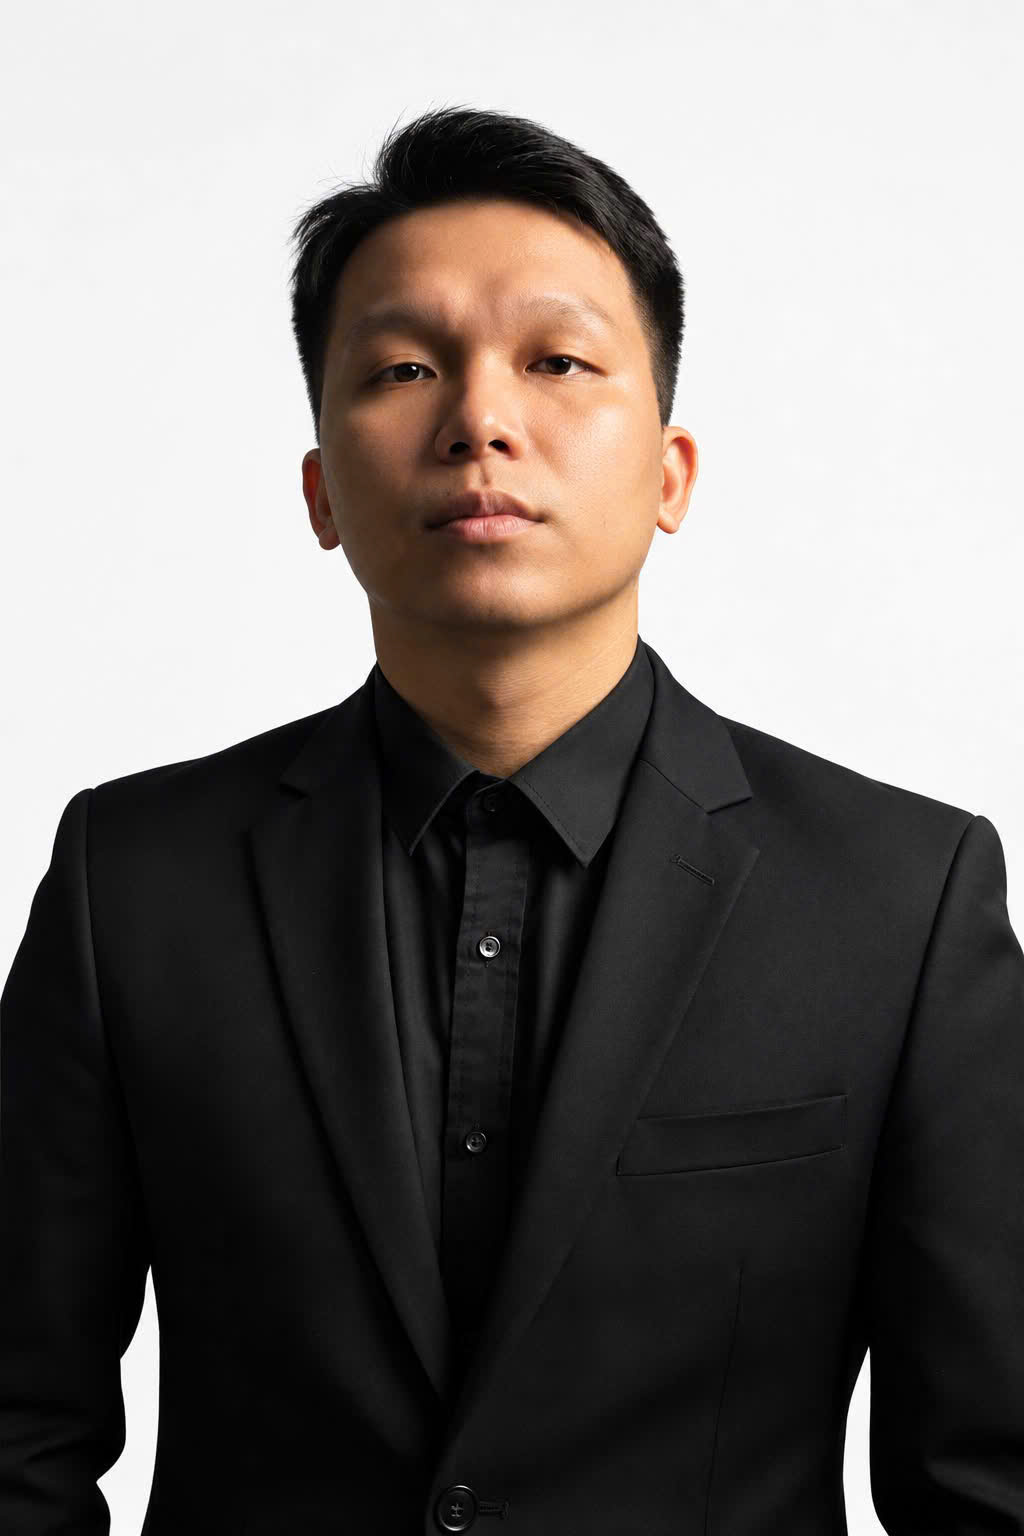
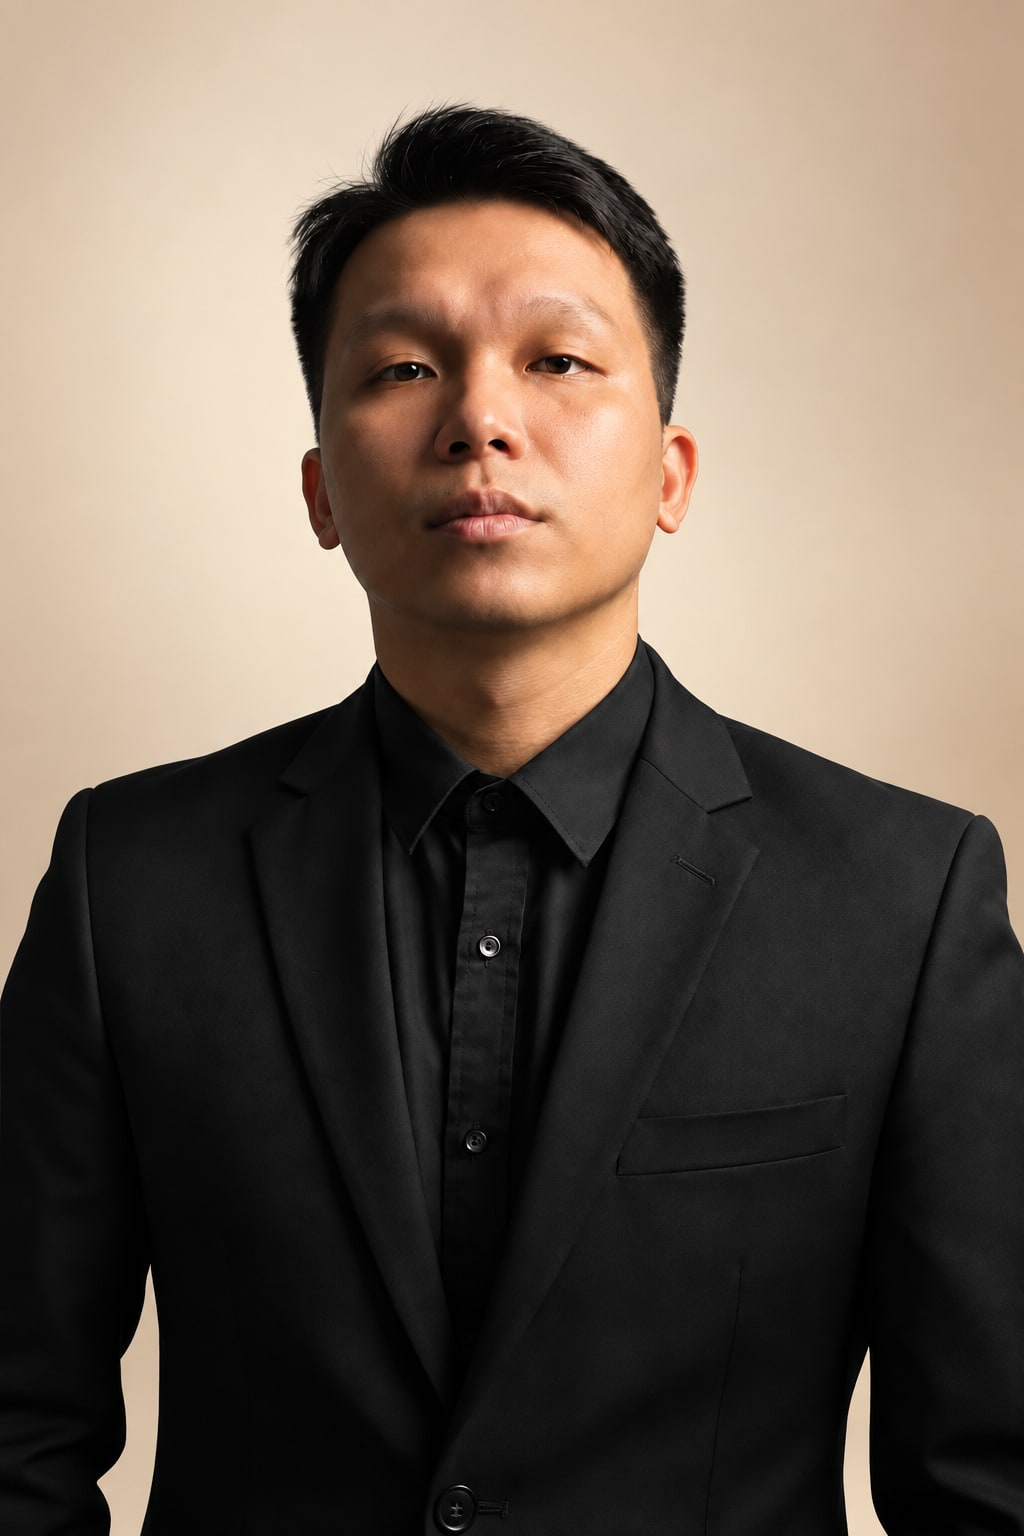
Publish scalp care article assets and refine team

diff --git a/app/seo-pages.tsx b/app/seo-pages.tsx
@@ -1275,60 +1275,21 @@ export function TrustPage({
       image: "/images/hato-team-nguyen-thi-kim-loan.png",
       alt:
         lang === "vi"
-          ? "Chuyên gia Head Spa và chăm sóc da đầu Nguyễn Thị Kim Loan tại Hato Beauty"
-          : "Head Spa and scalp care specialist Nguyen Thi Kim Loan at Hato Beauty",
+          ? "Chuyên gia Head Spa, chăm sóc da đầu, mi và mày Nguyễn Thị Kim Loan tại Hato Beauty"
+          : "Head Spa, scalp, lash and brow specialist Nguyen Thi Kim Loan at Hato Beauty",
       name: "Nguyễn Thị Kim Loan",
       role:
         lang === "vi"
-          ? "Chuyên gia Head Spa & chăm sóc da đầu"
-          : "Head Spa & scalp care specialist",
+          ? "Chuyên gia Head Spa, da đầu & Mi & Mày"
+          : "Head Spa, scalp, lash & brow specialist",
       description:
         lang === "vi"
-          ? "Mang đến trải nghiệm chăm sóc da đầu nhẹ nhàng qua các bước làm sạch, thư giãn và theo dõi cảm nhận; điều chỉnh thao tác theo nhu cầu và mức độ thoải mái của từng khách."
-          : "Provides a gentle scalp-care experience through cleansing, relaxation and close attention to comfort, adapting each technique to the guest’s needs.",
+          ? "Mang đến trải nghiệm chăm sóc da đầu nhẹ nhàng, đồng thời quan sát đường nét gương mặt để chăm sóc mi & mày hài hòa, tự nhiên và phù hợp với từng khách."
+          : "Provides gentle scalp care while considering each guest’s facial features to create balanced, natural-looking lash and brow results.",
       expertise:
         lang === "vi"
-          ? ["Head Spa thư giãn", "Làm sạch da đầu", "Chăm sóc theo cảm nhận"]
-          : ["Relaxing Head Spa", "Scalp cleansing", "Comfort-led care"],
-    },
-    {
-      number: "05",
-      image: "/images/hato-team-nguyen-thi-hoa-quynh.jpg",
-      alt:
-        lang === "vi"
-          ? "Chuyên gia mi và mày Nguyễn Thị Hoa Quỳnh tại Hato Beauty"
-          : "Lash and brow specialist Nguyen Thi Hoa Quynh at Hato Beauty",
-      name: "Nguyễn Thị Hoa Quỳnh",
-      role:
-        lang === "vi"
-          ? "Chuyên gia mi & mày"
-          : "Lash & brow specialist",
-      description:
-        lang === "vi"
-          ? "Quan sát dáng mắt, đường nét khuôn mặt và mong muốn của khách để điều chỉnh trải nghiệm chăm sóc mi & mày theo hướng nhẹ nhàng, hài hòa và dễ duy trì."
-          : "Considers each guest’s eye shape, facial features and preferences to create a gentle, balanced lash and brow care experience that is easy to maintain.",
-      expertise:
-        lang === "vi"
-          ? ["Chăm sóc mi & mày", "Tạo dáng hài hòa", "Hướng dẫn chăm sóc sau dịch vụ"]
-          : ["Lash & brow care", "Balanced shaping", "Aftercare guidance"],
-    },
-    {
-      number: "06",
-      image: "/images/hato-team-nguyen-minh-hoang.jpg",
-      alt:
-        lang === "vi"
-          ? "Dược sĩ Nguyễn Minh Hoàng tại Hato Beauty"
-          : "Pharmacist Nguyen Minh Hoang at Hato Beauty",
-      name: "Nguyễn Minh Hoàng",
-      role: lang === "vi" ? "Dược sĩ" : "Pharmacist",
-      description:
-        lang === "vi"
-          ? "Đồng hành cùng đội ngũ trong việc giải thích thông tin sản phẩm, cách sử dụng và các lưu ý cần thiết theo hướng rõ ràng, thận trọng và dễ hiểu."
-          : "Supports the team by explaining product information, practical use and important considerations in a clear, thoughtful and easy-to-understand way.",
-      expertise:
-        lang === "vi"
-          ? ["Thông tin sản phẩm", "Hướng dẫn sử dụng", "Lưu ý cần thiết"]
-          : ["Product information", "Usage guidance", "Key considerations"],
+          ? ["Head Spa thư giãn", "Chăm sóc da đầu", "Chăm sóc mi & mày"]
+          : ["Relaxing Head Spa", "Scalp care", "Lash & brow care"],
     },
   ];
   const consultationHref = bookingPath(lang);

diff --git a/app/globals.css b/app/globals.css
@@ -4317,8 +4317,8 @@ a:hover { color: inherit; }
 }
 .about-team-grid {
   display: grid;
-  grid-template-columns: repeat(3, minmax(0, 1fr));
-  gap: 20px;
+  grid-template-columns: repeat(2, minmax(0, 1fr));
+  gap: 24px;
 }
 .about-team-card {
   min-width: 0;
@@ -4326,14 +4326,14 @@ a:hover { color: inherit; }
   flex-direction: column;
   overflow: hidden;
   border: 1px solid rgba(115, 88, 70, .14);
-  border-radius: 28px;
+  border-radius: 30px;
   background: #fffaf5;
   box-shadow: 0 18px 48px rgba(74, 48, 32, .08);
 }
 .about-team-photo,
 .about-team-placeholder {
   width: 100%;
-  aspect-ratio: 4 / 4.35;
+  aspect-ratio: 5 / 4.1;
   position: relative;
   overflow: hidden;
   background: #e7d3c2;
@@ -4378,7 +4378,8 @@ a:hover { color: inherit; }
 }
 .about-team-copy {
   flex: 1;
-  padding: 25px 26px 28px;
+  min-height: 350px;
+  padding: 30px 32px 34px;
   display: flex;
   flex-direction: column;
 }
@@ -4404,7 +4405,7 @@ a:hover { color: inherit; }
 .about-team-copy h3 {
   margin: 24px 0 12px;
   font-family: var(--display);
-  font-size: clamp(27px, 2.4vw, 36px);
+  font-size: clamp(30px, 2.8vw, 42px);
   font-weight: 400;
   line-height: 1.1;
 }
@@ -4501,6 +4502,10 @@ a:hover { color: inherit; }
   .about-team-heading { grid-template-columns: 1fr; gap: 18px; }
   .about-team-heading > p { max-width: 52ch; }
   .about-team-grid { grid-template-columns: repeat(2, minmax(0, 1fr)); }
+  .about-team-photo,
+  .about-team-placeholder { aspect-ratio: 4 / 4.35; }
+  .about-team-copy { min-height: 390px; padding: 25px 26px 28px; }
+  .about-team-copy h3 { font-size: clamp(27px, 4vw, 34px); }
   .about-actions { flex-direction: column; }
   .about-actions .button { width: 100%; justify-content: center; }
   .results-page .result-grid {
@@ -6638,7 +6643,9 @@ a:hover { color: inherit; }
     flex: 0 0 min(84vw, 340px);
     scroll-snap-align: start;
   }
-  .about-team-copy { padding: 22px 22px 25px; }
+  .about-team-photo,
+  .about-team-placeholder { aspect-ratio: 4 / 4.35; }
+  .about-team-copy { min-height: 0; padding: 22px 22px 25px; }
   .about-team-meta { display: grid; gap: 9px; }
   .about-team-meta small { text-align: left; }
 }
